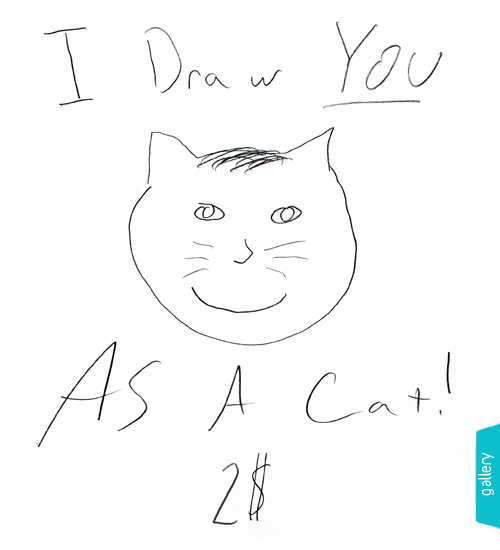
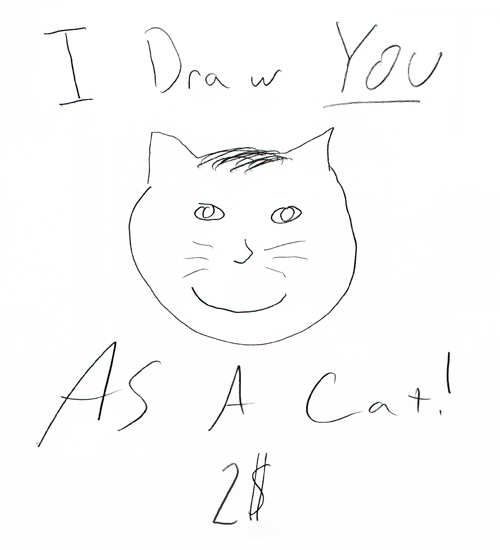
Start of paypal

Changed region(s): [[0.93, 0.7727, 1.0, 0.9582]]

diff --git a/public/stylesheets/style.css b/public/stylesheets/style.css
@@ -8,32 +8,45 @@ body{
 }
 
 /************** top section ****************/
-#cat {
+#main {
 	width:500px;
-	height:550px;
+	height:550px;	
+}
+
+#cat {
 	position: absolute;
+	border: dashed 3px blue;
 }
 
 #to_gallery {
+/*	float:left; */
+	position:absolute;
 	margin:0px;
 	padding:0px;
 	width:25px;
-	height:85px;
+	height:108px;
 	top:433px;
 	left:476px;
-/*	border: solid 1px red;*/
+	border: solid 1px red;
 	display: block;
-	position:absolute;
 }
 
-#gallery {
+#gallery_wrapper {
+	border: solid 1px purple;
 	width:500px;
 	height:550px;
-	background:#0cc0cc;
-/*	background:#33cc00;*/
-	color:white;
+/*	color:white;*/
 	position: absolute;
+/*	float: right;*/
 }
+
+#gallery_content {
+	float: right;
+	height: 550px;
+	width: 450px;
+	background:#0cc0cc;
+}
+
 
 
 /************** bottom section ****************/
@@ -111,4 +124,9 @@ ul.slideshow li {
 	position:absolute;
 	left:345px;
 	top:108px;
+}
+
+#orders {
+	position: absolute;
+	top: 570px;
 }

diff --git a/public/javascripts/application.js b/public/javascripts/application.js
@@ -2,12 +2,12 @@
 // This file is automatically included by javascript_include_tag :defaults
 $(document).ready(function(){
 
-	$('#gallery').hide();
+	$('#gallery_content').hide();
 	
-	$('#to_gallery').click(function(){
-		$('#gallery').show("slide", { direction: "right" }, 1000);
-		$('#cat').hide("slide", { direction: "left" }, 1000);
-	});
+	// $('#to_gallery').click(function(){
+	// 	$('#gallery').show("slide", { direction: "right" }, 1000);
+	// 	$('#cat').hide("slide", { direction: "left" }, 1000);
+	// });
 
 	$('#to_cat').click(function(){
 		$('#cat').show("slide", { direction: "left" }, 1000);
@@ -16,7 +16,13 @@ $(document).ready(function(){
 
 
 
+	$('#to_gallery').click(function(){
+		$('#gallery_content').toggle("slide", { direction: "right	" }, 1000);
+	});
 
+
+
+// bottom section
 
 	$('#slide2').hide();
 	$('#slide3').hide();

diff --git a/app/controllers/orders_controller.rb b/app/controllers/orders_controller.rb
@@ -1,0 +1,52 @@
+class OrdersController < ApplicationController
+  def new
+    @order = Order.new
+  end
+  
+  def create
+    # Use the TrustCommerce test servers
+    # ActiveMerchant::Billing::Base.mode = :test
+
+    # ActiveMerchant accepts all amounts as Integer values in cents
+    # $10.00
+    amount = 1000
+
+    # The card verification value is also known as CVV2, CVC2, or CID 
+    credit_card = ActiveMerchant::Billing::CreditCard.new(
+                    :first_name         => 'Bob',
+                    :last_name          => 'Bobsen',
+                    :number             => '4242424242424242',
+                    :month              => '8',
+                    :year               => '2012',
+                    :verification_value => '123'
+                  )
+
+    # Validating the card automatically detects the card type
+    
+    logger.info "credit_card: #{credit_card.inspect}"
+    if credit_card.valid?
+      logger.info "credit_card is valid"
+
+      address = {
+        :address1 => "123 Street",
+        # :address2 => nil,
+        :city => "Chicago",
+        :state => "IL",
+        :zip => "12345",
+        :phone => "2342342345",
+        :country => "US"
+      }
+      # Authorize for the amount
+      response = GATEWAY.purchase(amount, credit_card, {:ip => request.remote_ip,
+                                                        :address => address,
+                                                        :billing_address => address})
+
+      if response.success?
+        logger.info "Successfully charged $#{sprintf("%.2f", amount / 100)} to the credit card #{credit_card.display_number}"
+      else
+        raise StandardError, response.message 
+      end
+    end
+
+  end
+end

diff --git a/config/environments/development.rb b/config/environments/development.rb
@@ -22,5 +22,22 @@ Cats::Application.configure do
 
   # Only use best-standards-support built into browsers
   config.action_dispatch.best_standards_support = :builtin
+  
+  config.after_initialize do
+    ActiveMerchant::Billing::Base.mode = :test
+    ::GATEWAY = ActiveMerchant::Billing::PaypalGateway.new(
+      :login => "sell1_1311815277_biz_api1.gmail.com",
+      :password => "1311815319",
+      :signature => "A-Tc9XBEVOm6L4nQ7vvndYDNFvrEAT4iwJuZ470Z6gDe6WArkKOfd9g3"
+    )
+  end
+  
+  
+  # Test Account:   sell1_1311815277_biz@gmail.com  Jul. 27, 2011 18:08:39 PDT
+  # API Username:   sell1_1311815277_biz_api1.gmail.com
+  # API Password:   1311815319
+  # Signature:  A-Tc9XBEVOm6L4nQ7vvndYDNFvrEAT4iwJuZ470Z6gDe6WArkKOfd9g3
+  
+  
 end
 

diff --git a/config/environments/production.rb b/config/environments/production.rb
@@ -46,4 +46,22 @@ Cats::Application.configure do
 
   # Send deprecation notices to registered listeners
   config.active_support.deprecation = :notify
+  
+  
+  config.after_initialize do
+    ActiveMerchant::Billing::Base.mode = :productionr
+    ::GATEWAY = ActiveMerchant::Billing::PaypalGateway.new(
+      :login => "sell1_1311815277_biz_api1.gmail.com",
+      :password => "1311815319",
+      :signature => "A-Tc9XBEVOm6L4nQ7vvndYDNFvrEAT4iwJuZ470Z6gDe6WArkKOfd9g3"
+    )
+  end
+  
+  
+  # Test Account:   sell1_1311815277_biz@gmail.com  Jul. 27, 2011 18:08:39 PDT
+  # API Username:   sell1_1311815277_biz_api1.gmail.com
+  # API Password:   1311815319
+  # Signature:  A-Tc9XBEVOm6L4nQ7vvndYDNFvrEAT4iwJuZ470Z6gDe6WArkKOfd9g3
+  
+  
 end

diff --git a/db/schema.rb b/db/schema.rb
@@ -10,7 +10,20 @@
 #
 # It's strongly recommended to check this file into your version control system.
 
-ActiveRecord::Schema.define(:version => 20110520031507) do
+ActiveRecord::Schema.define(:version => 20110827163104) do
+
+  create_table "orders", :force => true do |t|
+    t.string   "address_line_one"
+    t.string   "address_line_two"
+    t.string   "state"
+    t.string   "zip_code"
+    t.string   "email"
+    t.string   "first_name"
+    t.string   "last_name"
+    t.boolean  "complete"
+    t.datetime "created_at"
+    t.datetime "updated_at"
+  end
 
   create_table "people", :force => true do |t|
     t.string   "name"

diff --git a/db/migrate/20110827163104_create_orders.rb b/db/migrate/20110827163104_create_orders.rb
@@ -1,0 +1,20 @@
+class CreateOrders < ActiveRecord::Migration
+  def self.up
+    create_table :orders do |t|
+      t.string  :address_line_one
+      t.string  :address_line_two
+      t.string  :state
+      t.string  :zip_code
+      t.string  :email
+      t.string  :first_name
+      t.string  :last_name
+      t.boolean :complete
+      
+      t.timestamps
+    end
+  end
+
+  def self.down
+    drop_table :orders
+  end
+end

diff --git a/config/environments/test.rb b/config/environments/test.rb
@@ -32,4 +32,11 @@ Cats::Application.configure do
 
   # Print deprecation notices to the stderr
   config.active_support.deprecation = :stderr
+  
+  config.after_initialize do
+    ActiveMerchant::Billing::Base.mode = :test
+    ::GATEWAY = ActiveMerchant::Billing::BogusGateway.new
+  end
+  
+  
 end

diff --git a/config/routes.rb b/config/routes.rb
@@ -13,7 +13,8 @@ Cats::Application.routes.draw do
 
   # Sample resource route (maps HTTP verbs to controller actions automatically):
   #   resources :products
-  
+  resources :orders
+
   # Sample resource route with options:
   #   resources :products do
   #     member do

diff --git a/test/functional/orders_controller_test.rb b/test/functional/orders_controller_test.rb
@@ -1,0 +1,8 @@
+require 'test_helper'
+
+class OrdersControllerTest < ActionController::TestCase
+  # Replace this with your real tests.
+  test "the truth" do
+    assert true
+  end
+end

diff --git a/test/unit/order_test.rb b/test/unit/order_test.rb
@@ -1,0 +1,8 @@
+require 'test_helper'
+
+class OrderTest < ActiveSupport::TestCase
+  # Replace this with your real tests.
+  test "the truth" do
+    assert true
+  end
+end

diff --git a/app/controllers/home_controller.rb b/app/controllers/home_controller.rb
@@ -1,2 +1,8 @@
+# require 'rubygemsc'
+# require 'activemerchant'
+
 class HomeController < ApplicationController
+
+  def index
+  end
 end
